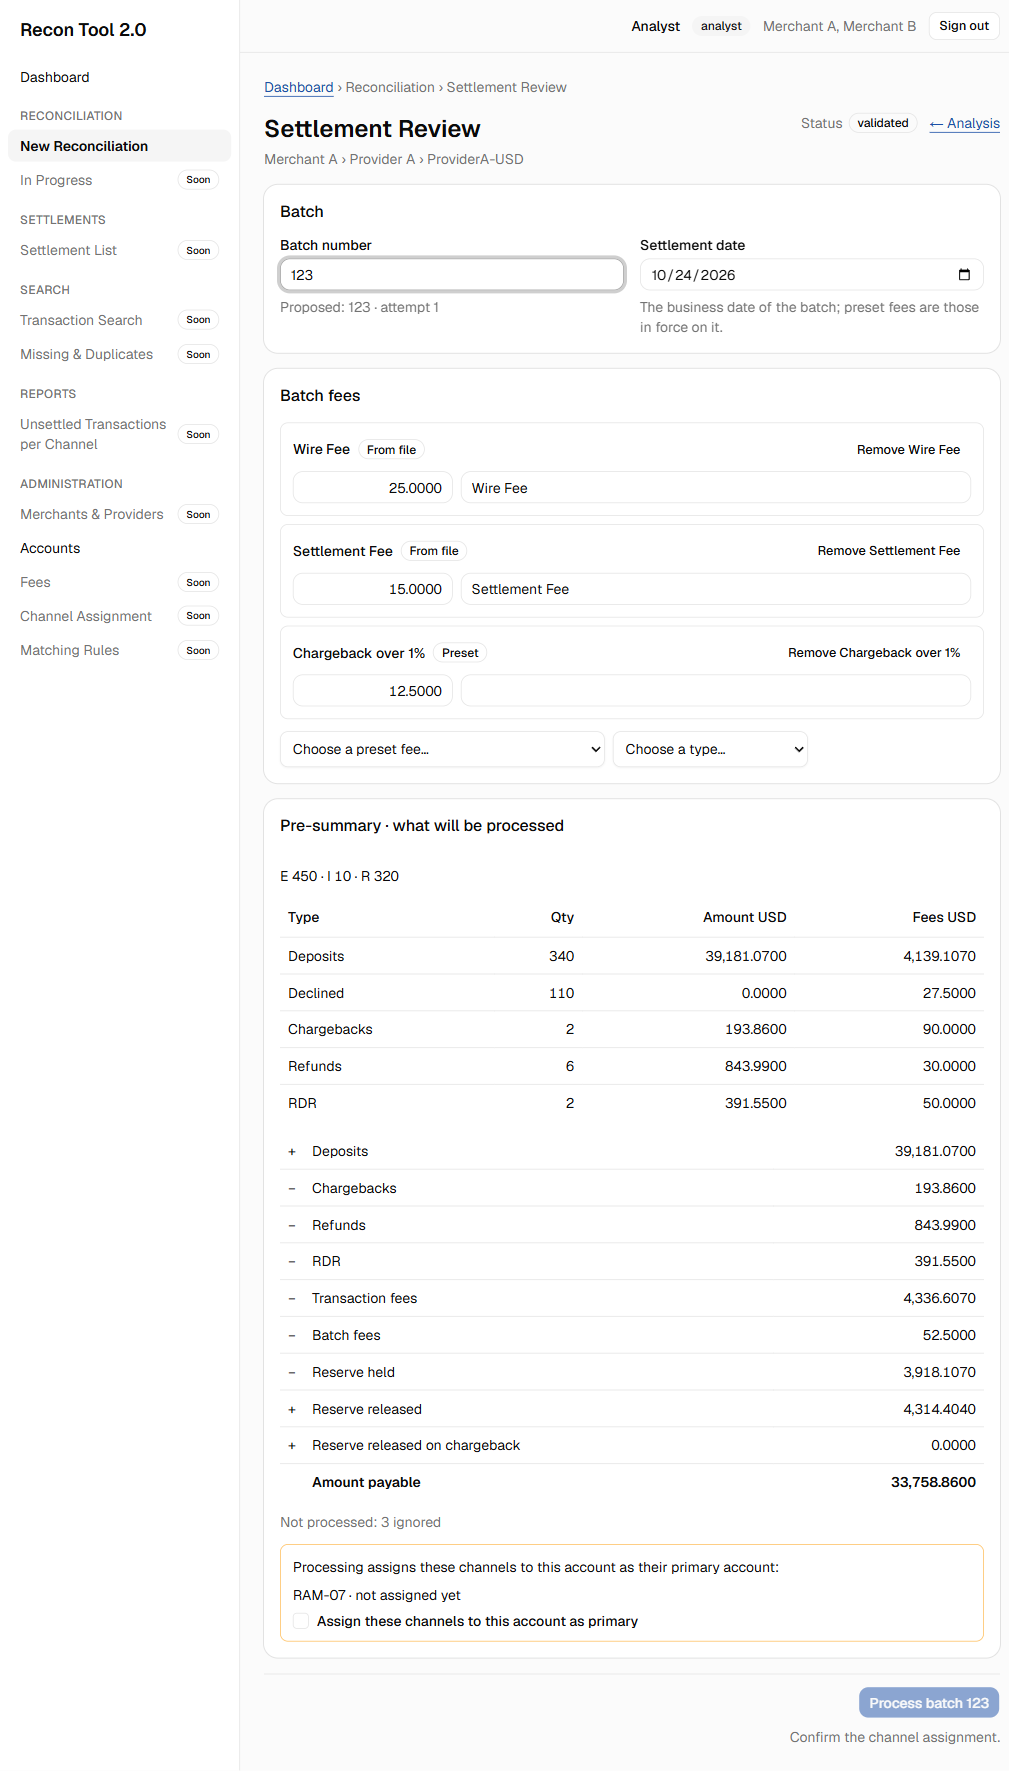
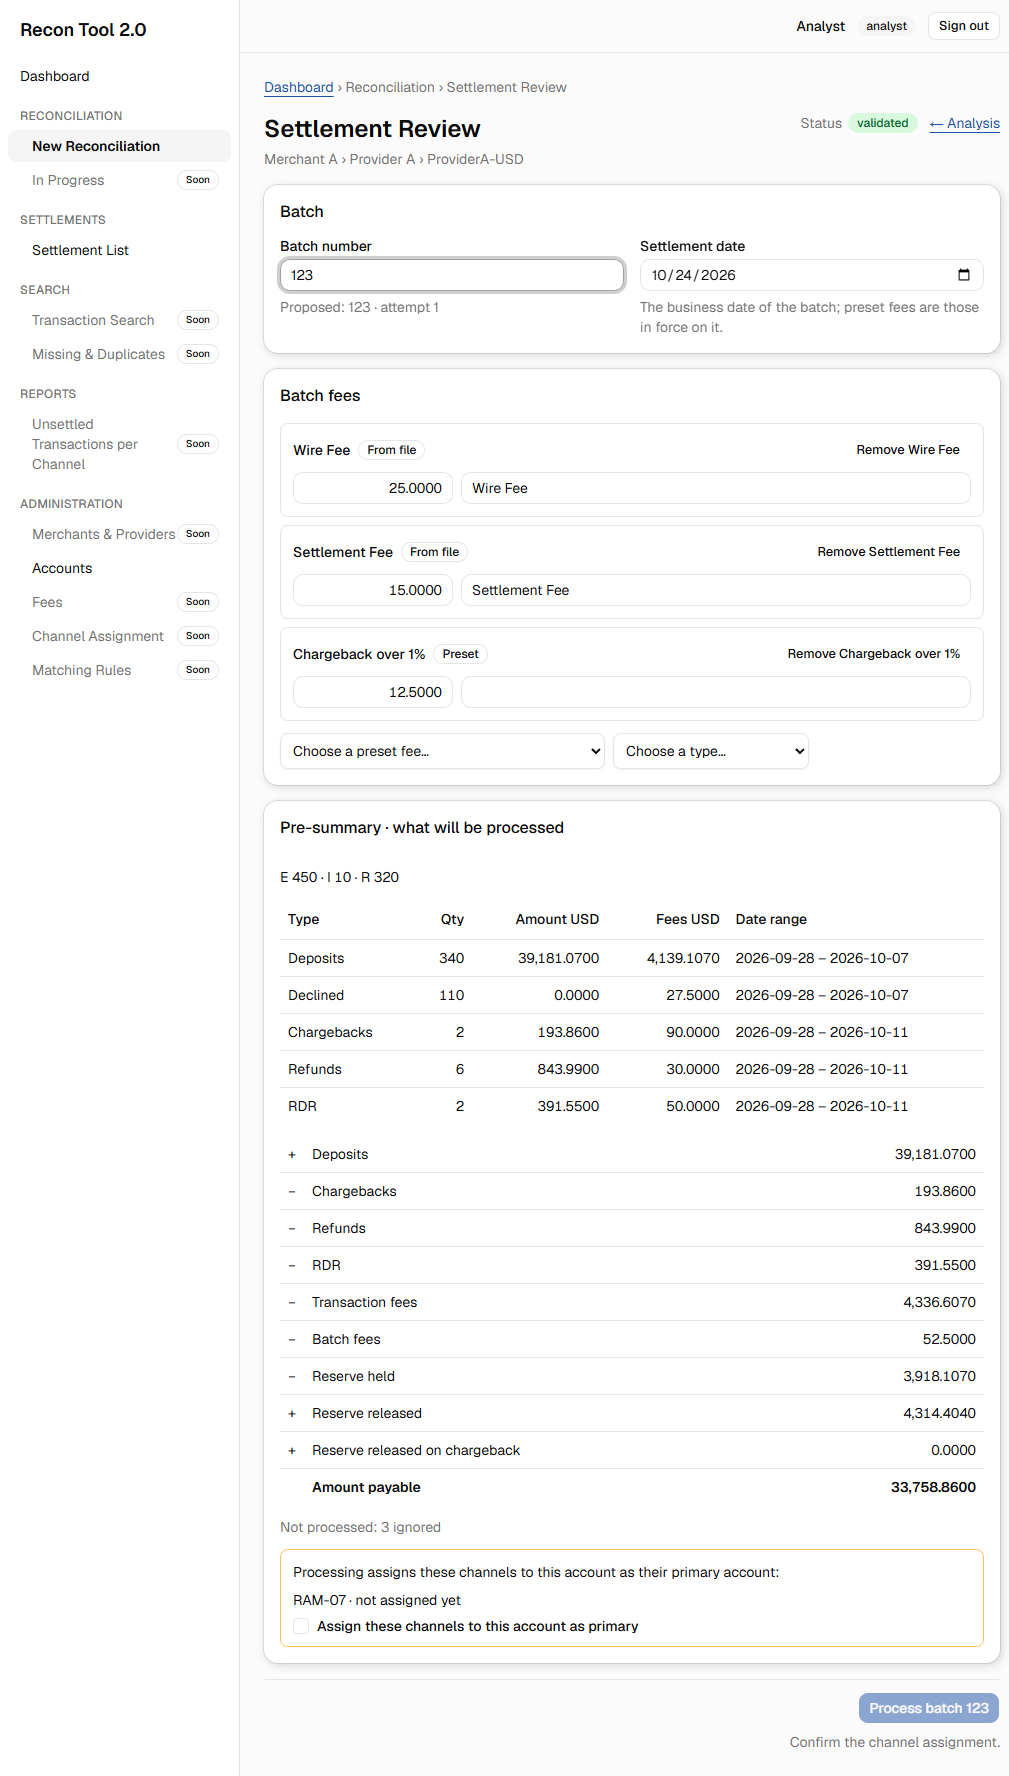
docs(ui-polish): capturas de Validations, Settlement y Settlement List tras el pulido de la interfaz

diff --git a/docs/wireframes/README.md b/docs/wireframes/README.md
@@ -64,8 +64,10 @@ El resto es de la Entrega 3 o roadmap: Merchants & Providers y Account Detail (t
 
 `impl/`: capturas de las pantallas ya construidas, a 1280 px, con datos del seed. T1 · #3: `impl/Login.jpg` y `impl/Accounts.jpg` (`viewer`, Provider A, con el aviso de RAM-07). T3 · #6 y #7: `impl/UploadFiles.jpg` (`batch-split` con sus dos archivos), `impl/ColumnMapping.jpg` (`batch-clean` recién subido, con las hojas compactas y la readiness por archivo) y `impl/Analysis.jpg` (`batch-clean` analizado, con el aviso de RAM-07); `analyst`, ProviderA-USD.
 
-`web-validations/`: T3 · #10, pantalla Analysis & Validations contra el API real, `analyst`, ProviderB-Main, generadas con `pnpm screenshots:web-validations`. `batch-issues-validations.png` (las ocho validaciones de `batch-issues`), `batch-issues-duplicate-drawer.png` y `batch-issues-duplicate-drawer-1024.png` (drawer del duplicado con la segunda aparición incluida y su historial, a 1280 y 1024 px), `batch-issues-invalidated-review.png` (aviso de revisión invalidada tras continuar y re-ejecutar) y `batch-blocked-continue-disabled.png` (Continue deshabilitado con el motivo de `provider_mismatch`).
+`web-validations/`: T3 · #10, pantalla Analysis & Validations contra el API real, `analyst`, ProviderB-Main, generadas con `pnpm screenshots:web-validations`. `batch-issues-validations.png` (las ocho validaciones de `batch-issues`), `batch-issues-duplicate-drawer.png` y `batch-issues-duplicate-drawer-1024.png` (drawer del duplicado con la segunda aparición incluida y su historial, a 1280 y 1024 px), `batch-issues-missing-drawer.png` (drawer de un faltante `Missing in range` con `Batch range (E/APP)` y por qué es faltante), `batch-issues-invalidated-review.png` (aviso de revisión invalidada tras continuar y re-ejecutar) y `batch-blocked-continue-disabled.png` (Continue deshabilitado con el motivo de `provider_mismatch`).
 
-`web-settlement/`: T4 · #13, pantallas Settlement Review y Settlement Summary contra el API real de #11, `analyst`, ProviderA-USD, `batch-clean`, generadas con `pnpm screenshots:web-settlement`. `settlement-review.png` (número propuesto 123, fecha, los dos fees de `Other Fees`, `Chargeback over 1%` solo porcentaje con su importe escrito a mano, resumen previo con las nueve líneas y RAM-07 por asociar), `settlement-review-batch-taken.png` (el 122 sembrado, con su intento activo en el campo y Process deshabilitado con su motivo), `settlement-review-1024.png` (a 1024 px, con el resumen previo debajo del formulario) y `settlement-summary.png` (el intento recién procesado: estado, totales, desglose del amount payable, fees con su usuario, RAM-07 asociado y descargas deshabilitadas hasta #12). Sin desplazamiento horizontal ni tablas recortadas a 1280 y 1024 px.
+`web-settlement/`: T4 · #13, pantallas Settlement Review y Settlement Summary contra el API real de #11, `analyst`, ProviderA-USD, `batch-clean`, generadas con `pnpm screenshots:web-settlement`. `settlement-review.png` (número propuesto 123, fecha, los dos fees de `Other Fees`, `Chargeback over 1%` solo porcentaje con su importe escrito a mano, resumen previo con las nueve líneas y RAM-07 por asociar), `settlement-review-batch-taken.png` (el 122 sembrado, con su intento activo en el campo y Process deshabilitado con su motivo), `settlement-review-1024.png` (a 1024 px; el resumen previo va debajo del formulario hasta 1536 px) y `settlement-summary.png` (el intento recién procesado: estado, totales, desglose del amount payable, fees con su usuario, RAM-07 asociado y descargas deshabilitadas hasta #12). Sin desplazamiento horizontal ni tablas recortadas a 1280 y 1024 px.
 
 `settlements-browse/`: #64, Settlement List y la pestaña Movements del Settlement Summary contra el API real, `analyst`, ProviderA-USD, con `batch-clean` ya procesado como batch 123, generadas con `pnpm screenshots:settlements-browse` (solo lee). `settlement-list.png` y `settlement-list-1024.png` (el 123 `Processed · pending payment` primero y los 22 pagados del seed en dos páginas, con quién y cuándo, los canales partidos solo tras una coma y el amount payable entero), `settlement-movements-e.png` (ciclo E con los contadores de la vista, la fila de origen de cada movimiento y la columna **Reserves**) y `settlement-movements-i.png` y `settlement-movements-i-1024.png` (los diez ajustes con su ronda y el desglose de un fee abierto, a 1280 y 1024 px). Sin desplazamiento horizontal ni tablas recortadas a 1280 y 1024 px: el script termina con error si alguna medición lo encuentra.
+
+Tras `ui-polish` (#85, #86, #87) se regeneraron las tres carpetas con los mismos scripts: tarjetas con sombra, colores de estado, cabecera de Validations con `Overall result` y la tabla de rangos en su tarjeta, y la columna **Date range** de `Totals by type` en Settlement Review y Summary en lugar de la tabla `Date ranges of this batch`. `settlements-browse` mide además la tarjeta del Login (relleno, borde del tema y sombra) sin capturarla.

diff --git a/openspec/changes/ui-polish/tasks.md b/openspec/changes/ui-polish/tasks.md
@@ -89,9 +89,9 @@ Orden test-first en los grupos de comportamiento: los tests se escriben y se ven
 - [x] 12.9 Cabecera de Validations (D9, D10): `Overall result` y Badge junto al título con la corrida en texto secundario; sin tabla de rangos con `Blocked`; la tabla en su tarjeta, alineada a la izquierda. Commits test + feat y push
 - [x] 12.10 Panel de un faltante (D18): `Batch range (<ciclo>/<estado>)` desde la corrida vigente y la línea de por qué es faltante. Commits test + feat y push; después, volver a 10.1 y avisar a la persona para que revise de nuevo antes de 12.3
 - [x] 12.11 Revisión de capturas 12.3 (D9): la celda de Date range se parte por el guion (`whitespace-normal`) y el pre-summary de Settlement Review va debajo del formulario hasta 1536 px; `web-settlement` lo daba recortado a 1280 px. Commits test + fix y push
-- [ ] 12.3 Con el visto bueno de la persona, ejecutar `pnpm screenshots:web-validations`, `pnpm screenshots:web-settlement` y `pnpm screenshots:settlements-browse`; revisar cada PNG antes de versionarlo (ninguna credencial ni pantalla de login) y la salida de consola sin desplazamiento horizontal. Después, la persona vuelve a sembrar con `! pnpm db:seed`
+- [x] 12.3 Con el visto bueno de la persona, ejecutar `pnpm screenshots:web-validations`, `pnpm screenshots:web-settlement` y `pnpm screenshots:settlements-browse`; revisar cada PNG antes de versionarlo (ninguna credencial ni pantalla de login) y la salida de consola sin desplazamiento horizontal. Después, la persona vuelve a sembrar con `! pnpm db:seed`
 - [ ] 12.4 Describir en el PR los tests cambiados a propósito (D15) con el escenario que los motiva, las mediciones de contraste, la clasificación de D8 aprobada por la persona y los issues #85, #86 y #87
-- [ ] 12.5 Commit: `docs(ui-polish): capturas de Validations, Settlement y Settlement List tras el pulido de la interfaz`
+- [x] 12.5 Commit: `docs(ui-polish): capturas de Validations, Settlement y Settlement List tras el pulido de la interfaz`
 
 ## Workflow follow-up
 
